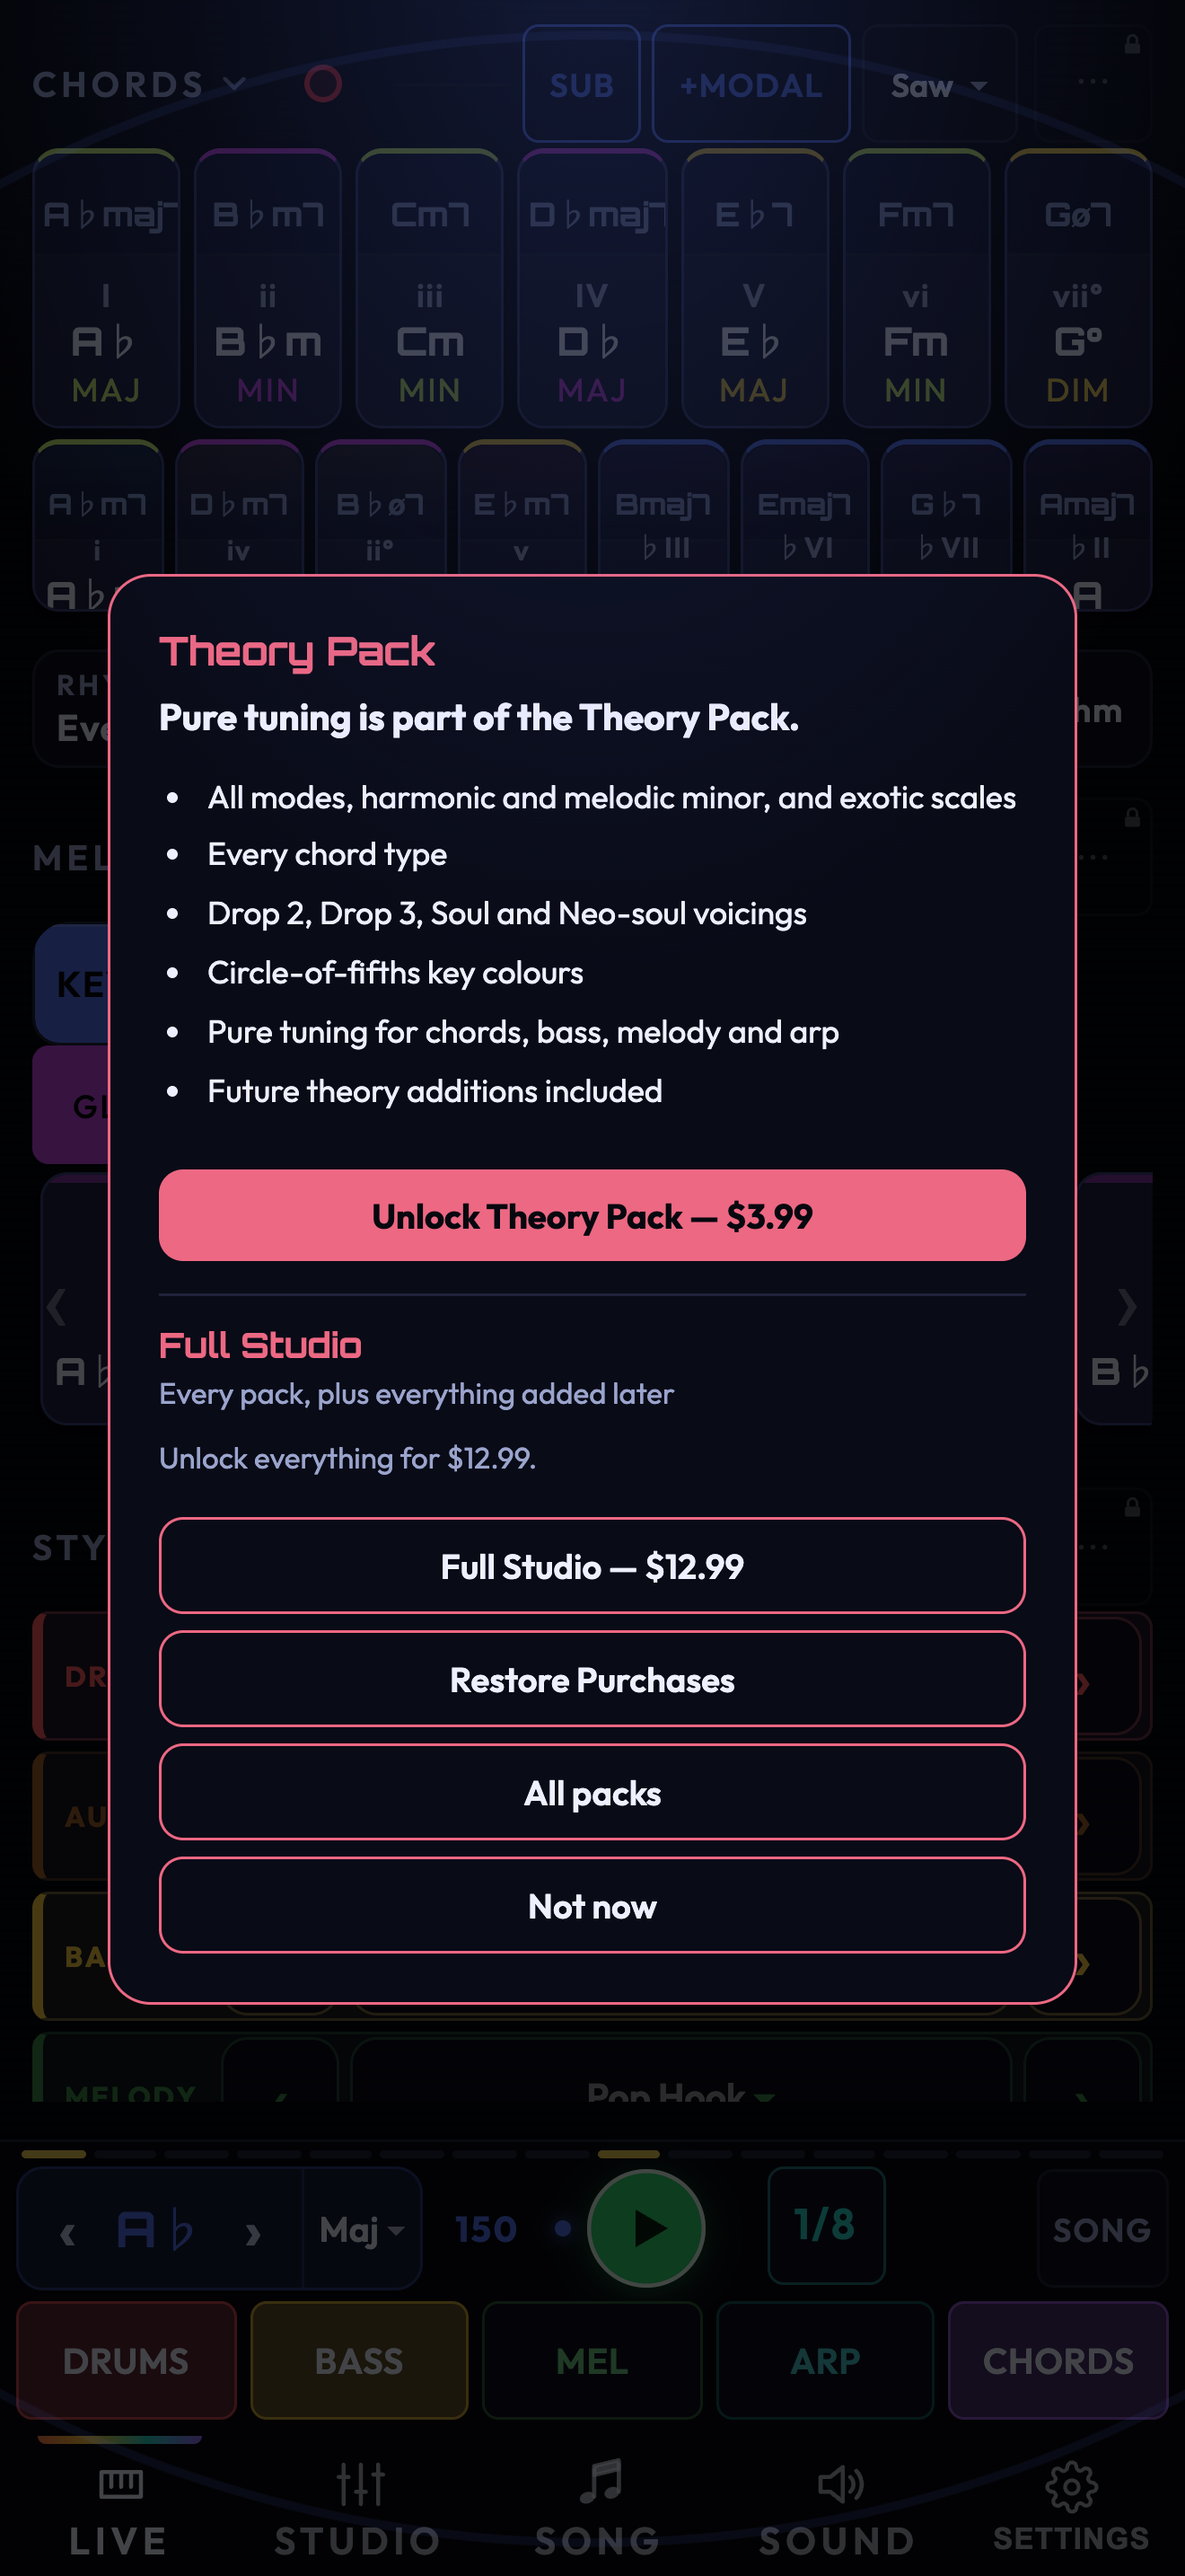
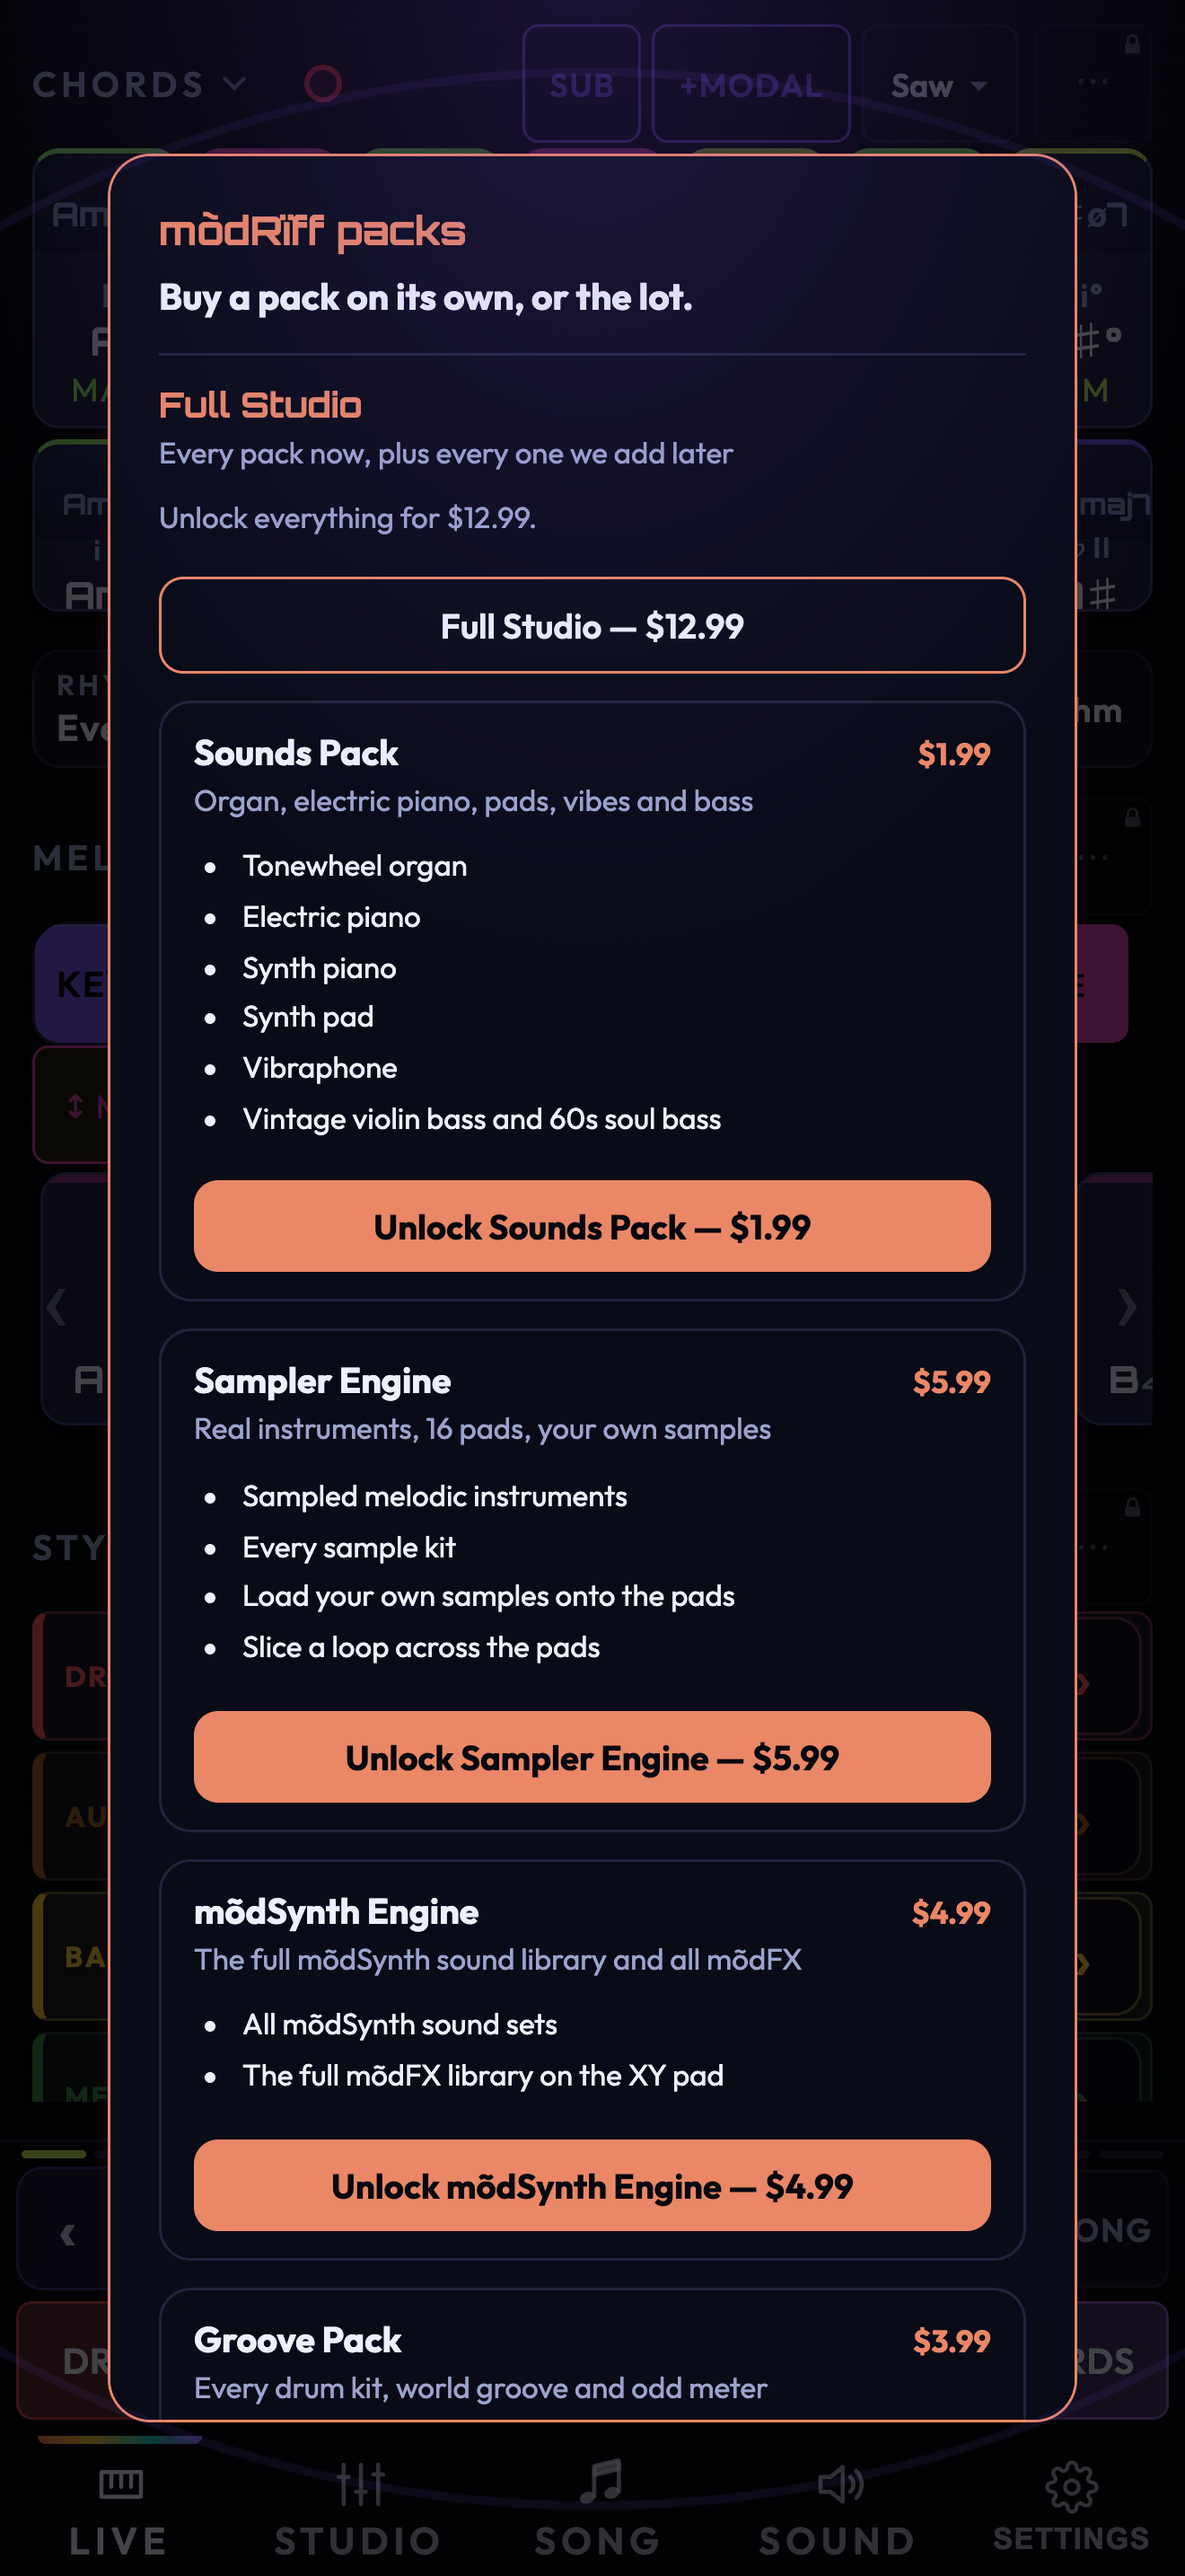
docs: retake the eleven IAP review screenshots; add the 1024 x 1024 promotional images
Screenshots: 1320 x 2868, retaken at 6.9.9.3a on current main, so they show the
current look and the new descriptions. Full Studio is now the All packs screen
and no longer the same file as Theory Pack: all eleven differ.

Promo: docs/app-store/promo/<product id>.png, 1024 x 1024, opaque, one per
product, rendered by promo.html and render.mjs (Chrome over its debugging port,
no dependencies). No price, no other company's name.

diff --git a/docs/app-store/promo/promo.html b/docs/app-store/promo/promo.html
@@ -1,0 +1,89 @@
+<!doctype html>
+<!-- The 1024 x 1024 promotional image for one in-app purchase: promo.html?id=<key>.
+     Rendered by render.mjs (Chrome, no dependencies), one PNG per product ID.
+     Copy comes from MODULE_COPY / BUNDLE_COPY in index.html, written out here because the
+     page cannot import from a 70k-line app; if a pack's name, line or bullets change there,
+     change them here and re-render. Shows no price (storefront-dependent) and names no other
+     product. The seven pack colours are the seven colours of the wordmark rainbow. -->
+<meta charset="utf-8">
+<title>IAP promo</title>
+<style>
+@font-face{font-family:Orbitron;font-weight:900;src:url(../../../fonts/orbitron-latin-900-normal.woff2) format('woff2')}
+@font-face{font-family:Orbitron;font-weight:700;src:url(../../../fonts/orbitron-latin-700-normal.woff2) format('woff2')}
+@font-face{font-family:Outfit;font-weight:400;src:url(../../../fonts/outfit-latin-400-normal.woff2) format('woff2')}
+@font-face{font-family:Outfit;font-weight:500;src:url(../../../fonts/outfit-latin-500-normal.woff2) format('woff2')}
+@font-face{font-family:Outfit;font-weight:600;src:url(../../../fonts/outfit-latin-600-normal.woff2) format('woff2')}
+@font-face{font-family:Outfit;font-weight:700;src:url(../../../fonts/outfit-latin-700-normal.woff2) format('woff2')}
+*{box-sizing:border-box;margin:0;padding:0}
+html,body{width:1024px;height:1024px;background:#05060c;overflow:hidden}
+body{position:relative;font-family:Outfit,sans-serif;color:#f2f3fa;--a:#ff9a3c}
+.glow{position:absolute;inset:0;background:
+  radial-gradient(circle at 50% -8%, color-mix(in srgb,var(--a) 34%,transparent), transparent 58%),
+  radial-gradient(circle at 100% 100%, color-mix(in srgb,var(--a) 14%,transparent), transparent 50%)}
+.top{position:absolute;left:80px;right:80px;top:68px;display:flex;justify-content:space-between;align-items:baseline}
+.mark{font-weight:700;font-size:44px;letter-spacing:.5px}
+.mark i{font-style:italic;color:var(--a)}
+.kind{font-weight:600;font-size:24px;letter-spacing:6px;text-transform:uppercase;color:var(--a)}
+.rule{position:absolute;left:80px;right:80px;top:140px;height:3px;border-radius:2px;background:linear-gradient(90deg,var(--a),transparent 85%)}
+h1{position:absolute;left:80px;max-width:864px;top:196px;white-space:nowrap;font-family:Orbitron,sans-serif;font-weight:900;line-height:1.08;letter-spacing:.5px}
+body.rainbow h1{background:linear-gradient(90deg,#ff5a5f,#ff9a3c,#ffd23f,#5fdc6a,#2ad4c8,#3a9bff,#b46bff);-webkit-background-clip:text;background-clip:text;color:transparent}
+.line{position:absolute;left:80px;right:80px;text-wrap:balance;font-weight:500;font-size:46px;line-height:1.2;color:#cfd3ea}
+ul{position:absolute;left:80px;right:80px;list-style:none}
+li{position:relative;padding-left:48px;font-size:36px;line-height:1.25;margin-bottom:20px;color:#e9ebf7}
+li::before{content:"";position:absolute;left:4px;top:.42em;width:20px;height:20px;border-radius:50%;background:var(--a);box-shadow:0 0 18px var(--a)}
+.bar{position:absolute;left:80px;right:80px;bottom:128px;display:flex;gap:12px}
+.seg{flex:1;height:30px;border-radius:8px}
+.seg.on{box-shadow:0 0 22px currentColor}
+.seg.off{background:#1b1e36}
+.foot{position:absolute;left:80px;right:80px;bottom:62px;display:flex;justify-content:space-between;font-size:26px;letter-spacing:4px;text-transform:uppercase;color:#8d92b5;font-weight:500}
+</style>
+<body>
+<div class="glow"></div>
+<div class="top"><div class="mark">mõd<i>Rïff</i></div><div class="kind" id="kind"></div></div>
+<div class="rule"></div>
+<h1 id="h1"></h1>
+<div class="line" id="line"></div>
+<ul id="ul"></ul>
+<div class="bar" id="bar"></div>
+<div class="foot"><span id="f1"></span><span id="f2"></span></div>
+<script>
+// Rainbow order = the store screen's pack order.
+var COL=['#ff5a5f','#ff9a3c','#ffd23f','#5fdc6a','#2ad4c8','#3a9bff','#b46bff'];
+var P={
+ sounds:   {c:0,t:['Sounds','Pack'],        s:104,l:'Organ, electric piano, pads, vibes and bass',b:['Tonewheel organ and electric piano','Synth piano and synth pad','Vibraphone, violin bass and soul bass']},
+ sampler:  {c:1,t:['Sampler','Engine'],     s:104,l:'Real instruments, 16 pads, your own samples',b:['Sampled instruments and every sample kit','Load your own samples onto the pads','Slice a loop across the pads']},
+ synth:    {c:2,t:['mõdSynth','Engine'],s:104,l:'The full mõdSynth sound library and all mõdFX',b:['Every mõdSynth sound set','The full mõdFX library on the XY pad','Save your own patches']},
+ groove:   {c:3,t:['Groove','Pack'],        s:104,l:'Every drum kit, world groove and odd meter',b:['Latin and world rhythms','More drum kits, plus the aux channel','Odd meters and patterns past 16 steps']},
+ theory:   {c:4,t:['Theory','Pack'],        s:104,l:'Every scale, chord and voicing. Play anything',b:['Every mode and exotic scale','Every chord type and voicing','Pure tuning and circle-of-fifths colours']},
+ practice: {c:5,t:['Practice &','Perform Pack'],s:78,l:'Speed trainer, timeline, Stage, chart import',b:['Speed trainer, next key, loop bars','Timeline and Stage mode for the stand','A practice library apart from your saves']},
+ studio:   {c:6,t:['Studio','Pack'],        s:104,l:'Export full songs and stems. Unlimited saves',b:['Export stems, one file per part','Full-length audio and MIDI export','Unlimited saved songs']}
+};
+var KEYS=['sounds','sampler','synth','groove','theory','practice','studio'];
+var id=new URLSearchParams(location.search).get('id'), d;
+if(P[id]){
+ d=P[id]; document.body.style.setProperty('--a',COL[d.c]);
+ kind.textContent='Pack '+(KEYS.indexOf(id)+1)+' of 7';
+ f1.textContent='One-time purchase'; f2.textContent='No subscription';
+ bar.innerHTML=KEYS.map(function(k,i){return '<div class="seg '+(i===KEYS.indexOf(id)?'on':'off')+'" style="'+(i===KEYS.indexOf(id)?'background:'+COL[i]+';color:'+COL[i]:'')+'"></div>';}).join('');
+} else if(id==='fullstudio'){
+ d={t:['Full Studio'],s:118,l:'Every pack now, plus every one we add later',b:['All seven packs','Every future pack, free','One purchase, no subscription']};
+ document.body.classList.add('rainbow'); document.body.style.setProperty('--a','#b46bff');
+ kind.textContent='Everything'; f1.textContent='One-time purchase'; f2.textContent='All seven packs';
+ bar.innerHTML=COL.map(function(c){return '<div class="seg on" style="background:'+c+';color:'+c+'"></div>';}).join('');
+} else { // from1, from2, from3plus
+ var own={from1:1,from2:2,from3plus:3}[id], more=id==='from3plus'?'Own three or more':'Own '+['','one','two'][own];
+ d={t:['Complete','Your Studio'],s:92,l:'Finish your set: every pack you don’t own yet',
+    b:[more+(own===1?' pack?':' packs?')+(id==='from3plus'?'':' Get the rest in one go'),'Every pack you don’t have yet','Plus every pack added later']};
+ if(id==='from3plus') d.b[0]='Own three or more packs? Get what’s left';
+ document.body.classList.add('rainbow'); document.body.style.setProperty('--a','#2ad4c8');
+ kind.textContent='Upgrade'; f1.textContent='One-time purchase'; f2.textContent=id==='from3plus'?'3+ packs owned':own+(own===1?' pack owned':' packs owned');
+ bar.innerHTML=COL.map(function(c,i){return i<own?'<div class="seg off"></div>':'<div class="seg on" style="background:'+c+';color:'+c+'"></div>';}).join('');
+}
+h1.innerHTML=d.t.join('<br>'); h1.style.fontSize=d.s+'px';
+// Not `top`: at page scope that is window.top, which cannot be assigned, so the sum came out as text.
+var y0=196+d.t.length*d.s*1.08+26;
+line.textContent=d.l; line.style.top=y0+'px';
+var lh=Math.ceil(line.getBoundingClientRect().height);
+ul.style.top=(y0+lh+34)+'px';
+ul.innerHTML=d.b.map(function(x){return '<li>'+x+'</li>';}).join('');
+</script>
